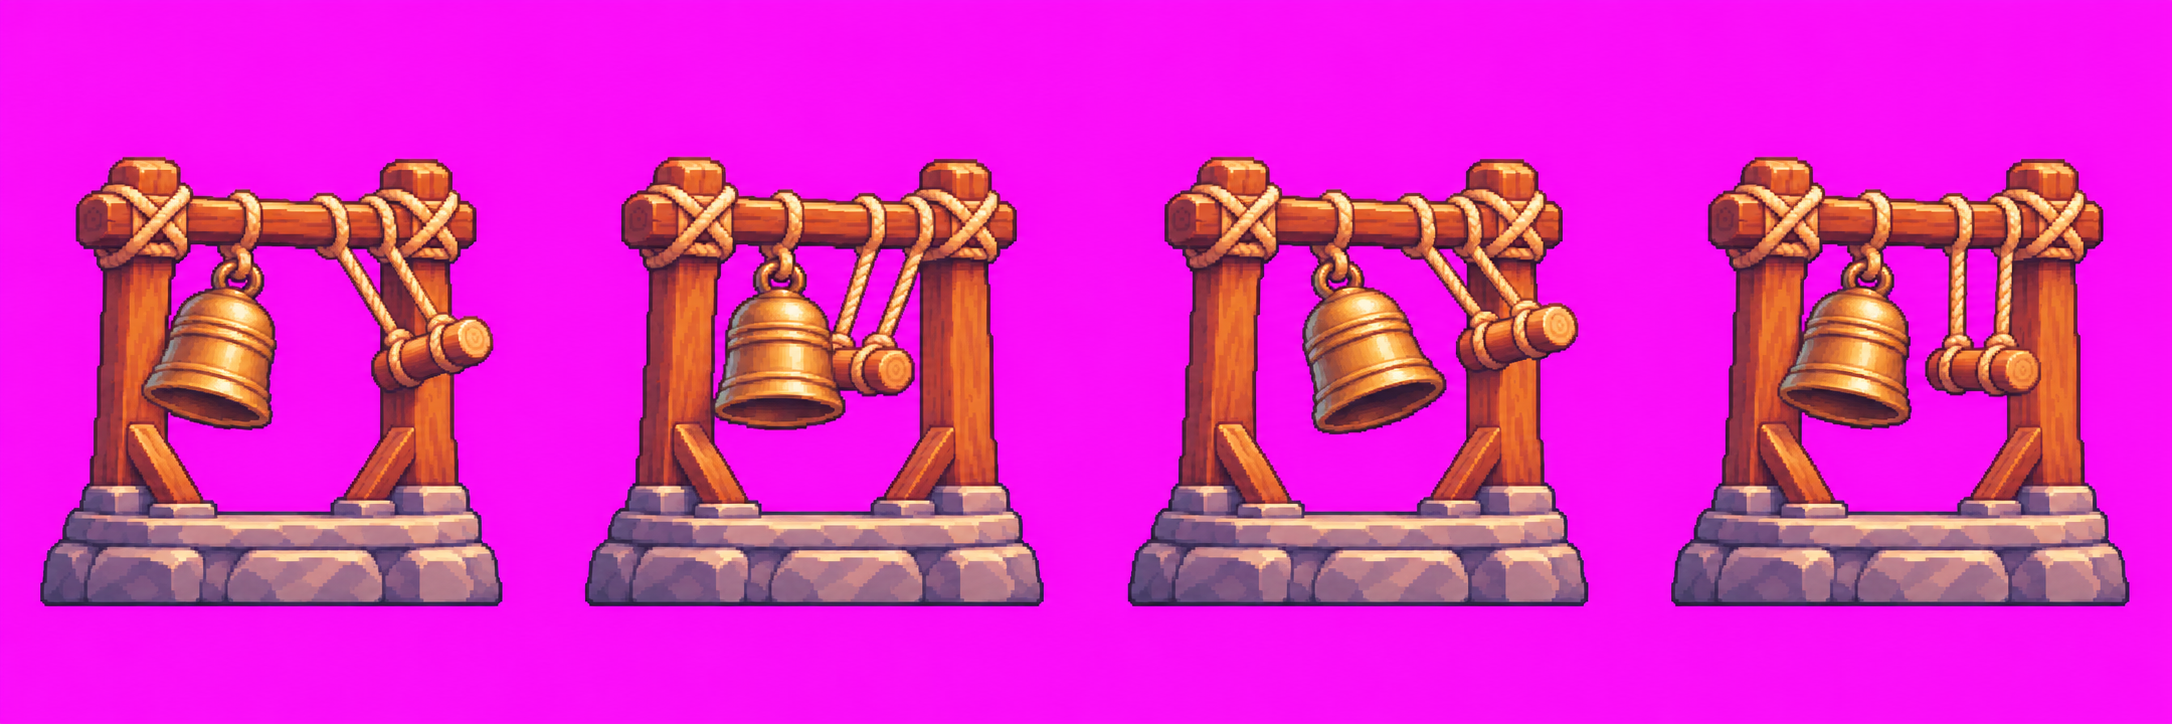
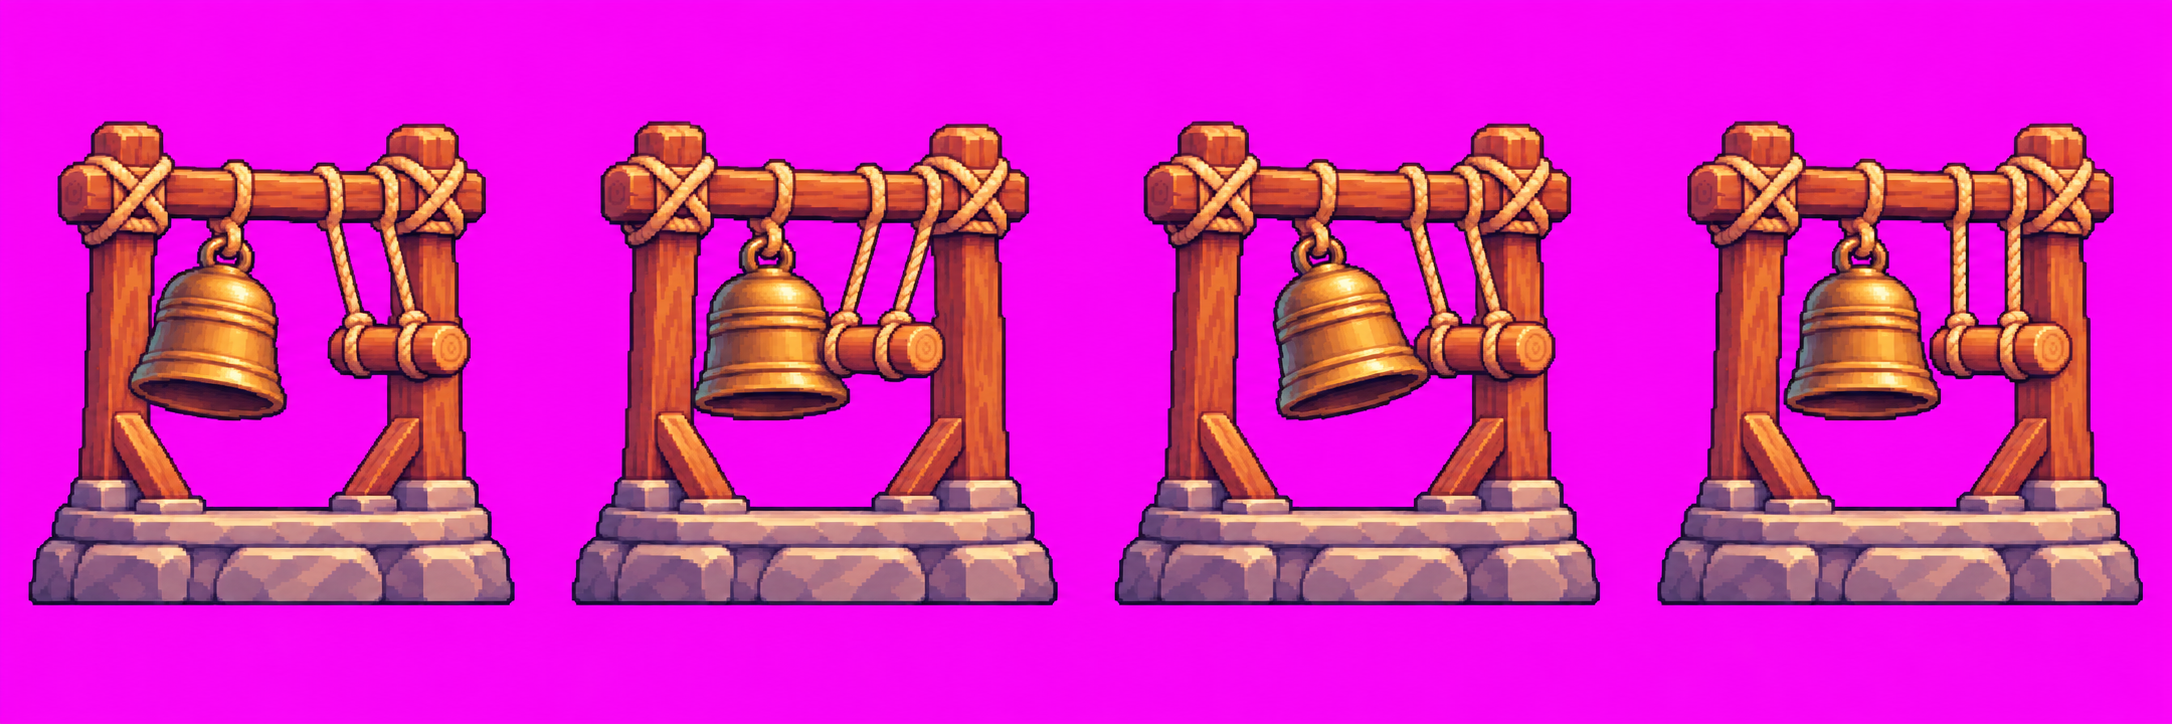
art(batch2): revise locked proportions of bell__t1__attack.png

diff --git a/idle-td-art/batch2/ORDER-B2.md b/idle-td-art/batch2/ORDER-B2.md
@@ -111,7 +111,6 @@ Redraw image B frame by frame using the tier <N> design from image A: EXACTLY th
 | `images/furnace__t3__stand.png` | 1254×1254 | 1 | 丹爐炮塔 3 階：金色八卦爐、紅玉寶石、朝右龍口炮嘴、微浮爐蓋。 |
 | `images/bell__t2__stand.png` | 1254×1254 | 1 | 雷音鐘塔 2 階：紅漆曲簷鐘亭、雕雲紋青銅鐘、魚形木槌。 |
 | `images/bell__t3__stand.png` | 1254×1254 | 1 | 雷音鐘塔 3 階：紫金鐘樓、雷雲紋金鐘、雙鼓與三枚浮雲飾件。 |
-| `images/bell__t1__attack.png` | 2172×724 | 4 | 雷音鐘塔 1 階攻擊四格：木槌後擺、敲鐘、鐘身右擺、回擺；鐘架與底座固定。 |
 | `images/bell__t2__attack.png` | 2172×724 | 4 | 雷音鐘塔 2 階攻擊四格：魚形木槌敲擊與雕紋銅鐘擺動，紅漆鐘亭固定。 |
 | `images/bell__t3__attack.png` | 2172×724 | 4 | 雷音鐘塔 3 階攻擊四格：金鐘與魚形槌擺動，保留紫金鐘樓、雙鼓及浮雲。 |
 | `images/frost__t2__stand.png` | 1254×1254 | 1 | 寒冰燈塔 2 階：白石銀霜紋、屋簷冰柱，依意見把晶體顯著放大並加深藍色。 |
@@ -127,6 +126,7 @@ Redraw image B frame by frame using the tier <N> design from image A: EXACTLY th
 | `images/furnace__t1__attack.png` | 2172×724 | 4 | 09:35 返工修正版：爐身、三足與底座固定，只動爐蓋與炮口；第 4 格關蓋回站立。 |
 | `images/furnace__t2__attack.png` | 2172×724 | 4 | 09:35 返工修正版：青銅爐身不擠壓、不拉長，只動蓋與炮口；第 4 格關蓋，比例已重新對照站立。 |
 | `images/furnace__t3__attack.png` | 2172×724 | 4 | 09:35 返工修正版：金色爐身固定，只有爐蓋起落與龍口微縮；第 4 格回到站立圖微浮蓋位置。 |
+| `images/bell__t1__attack.png` | 2172×724 | 4 | 09:35 返工修正版：重對木架高寬與底座比例；鐘槌敲擊、鐘身擺動，第 4 格回原站立。 |
 
 原檔 SHA-256：
 
@@ -144,7 +144,6 @@ Redraw image B frame by frame using the tier <N> design from image A: EXACTLY th
[7 lines of base64/hex data omitted]
@@ -160,6 +159,7 @@ Redraw image B frame by frame using the tier <N> design from image A: EXACTLY th
[4 lines of base64/hex data omitted]
 
 ## 意見與待辦
 
@@ -175,3 +175,4 @@ Redraw image B frame by frame using the tier <N> design from image A: EXACTLY th
     - `bell__t1__attack.png`：整座塔比站立圖矮胖約 4～5%。照站立圖的高寬重畫。
     - `frost__t2__attack.png`、`frost__t3__attack.png`：水晶（2 階）和水晶球（3 階）在攻擊格裡變小，第 4 格跟站立圖不一樣。水晶大小每格照站立圖，只移動位置；第 4 格＝站立。
   - 順序：先畫完 README 的神獸 v2 站立 4 張，再補這 6 張，推 `dot/idle-td-b2`。
+- 2026-11-04 09:50 TW　**`furnace__t1__attack.png`、`furnace__t2__attack.png` 重畫版通過**：爐身每格不變形，只有爐蓋上下，第 4 格＝站立（量到的高度變化只來自爐蓋）。剩 furnace t3、bell t1、frost t2、frost t3。
